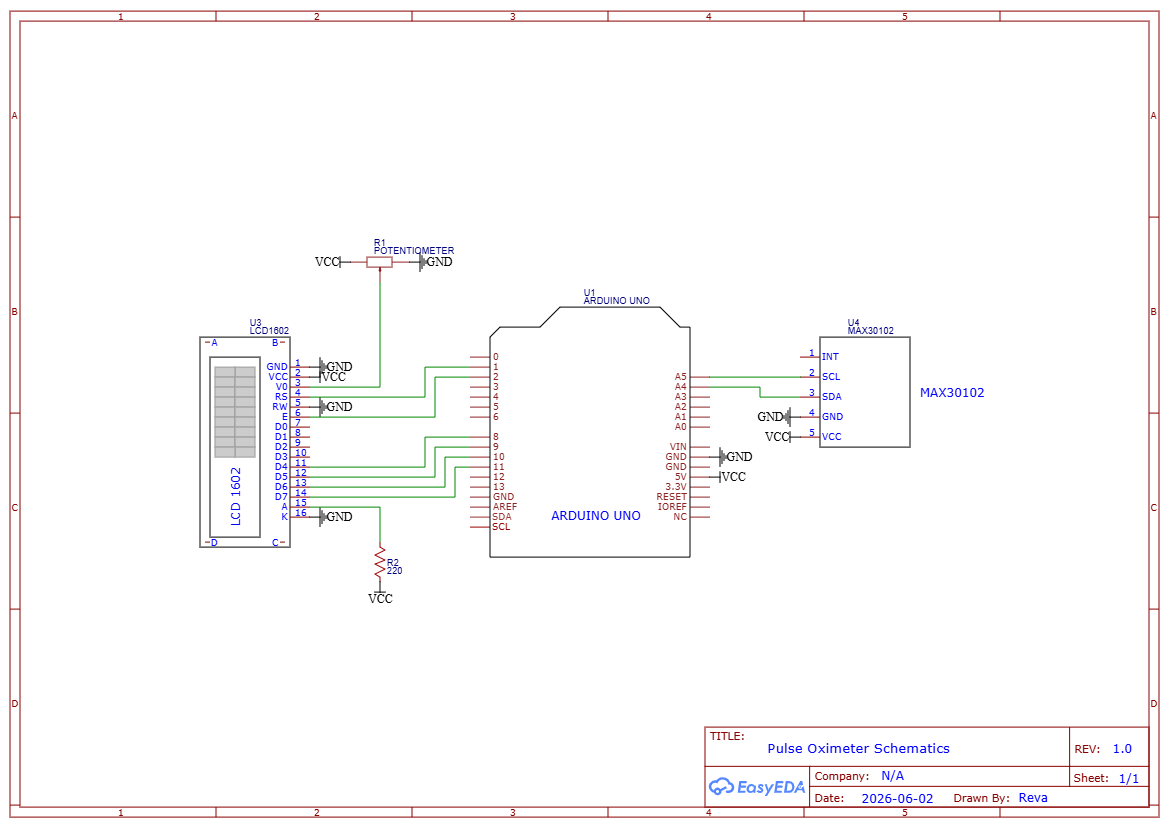
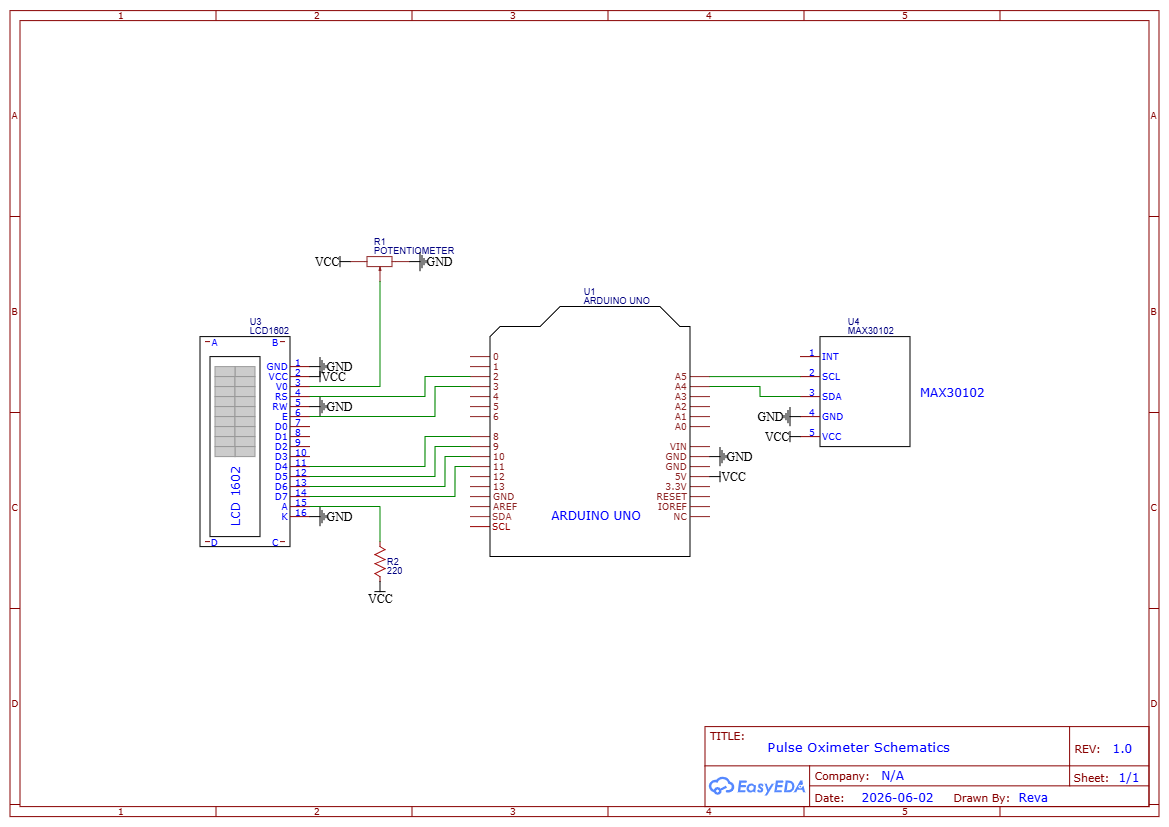
Day 5 - Printout Timer and LCD Display

diff --git a/Progress.md b/Progress.md
@@ -12,7 +12,7 @@
 ## Day 1 - Research and Wiring 
 ### What I Did 
 - Researched I2C communication (SDA and SCL wiring)
-- Conducted background research on how MAX30102 module works (see the Guide I created in Docs)
+- Conducted background research on how MAX30102 module works 
 - Created schematics diagram 
 
 ### Challenges
@@ -36,6 +36,7 @@
 ### What I Did
 - researched how SpO₂ is calculated in pulse oximeters.
 - developed a custom function to implement SpO₂ estimation using IR and red light sensor data.
+
 ### Challenges
 - understanding the underlying SpO₂ calculation method and signal processing involved.
 - translating the mathematical process into code that updates in real time using continuously incoming sensor data.
@@ -45,6 +46,16 @@
 - BPM was previously calculated using a single heartbeat interval, which caused fluctuations.
 - implemented a moving average of multiple heartbeat intervals to make readings more reliable.
 - reused the rolling average approach previously used in SpO₂ processing.
+
 ### Challenges
 - adapting the averaging system from SpO₂ (signal data) to BPM (time interval data).
 - ensuring the system remains responsive while still reducing noise in the readings.
+
+## Day 5 - Printout Timer and LCD Display 
+### What I Did
+- implemented a timed update system to display the most recent BPM and SpO₂ readings at 1-second intervals
+- assembled and wired an LCD display for real-time data output
+
+### Challenges
+- balanced real-time data processing with display updates to prevent flickering and maintain readable output
+- resolved incorrect LCD row formatting issues due to wiring configuration and cursor positioning errors

diff --git a/README.md b/README.md
@@ -14,5 +14,14 @@ Arduino-based pulse oximeter with heart rate measurement, blood oxygen estimatio
 ![Schematic](Docs/Pulse_Oximeter_Schematics.png)
 
 ## Installation 
+- Install the SparkFun MAX30105 library to interface with the pulse oximeter sensor
+- Install the LiquidCrystal library to enable control of the 16×2 LCD display
+
+## Current Prototype Demo
+(https://drive.google.com/file/d/1-y-36yLg5hr9LkGneLRxy3-ZZPQlt3wh/view?usp=sharing)
 
 ## Future Improvements
+- Optimize the design by transitioning to an Arduino Nano and an I2C-enabled LCD display to reduce wiring complexity
+- Design and 3D print a compact wearable enclosure for improved portability and usability
+- Enhance signal processing by implementing more advanced filtering techniques to improve the accuracy and stability of SPO2 and BPM (especially) readings
+- Calibrate SPO2 calculations more accurately 
